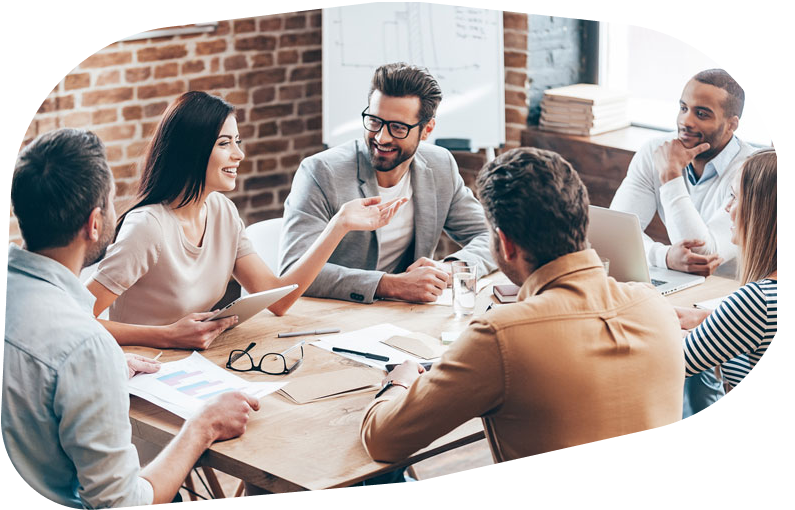
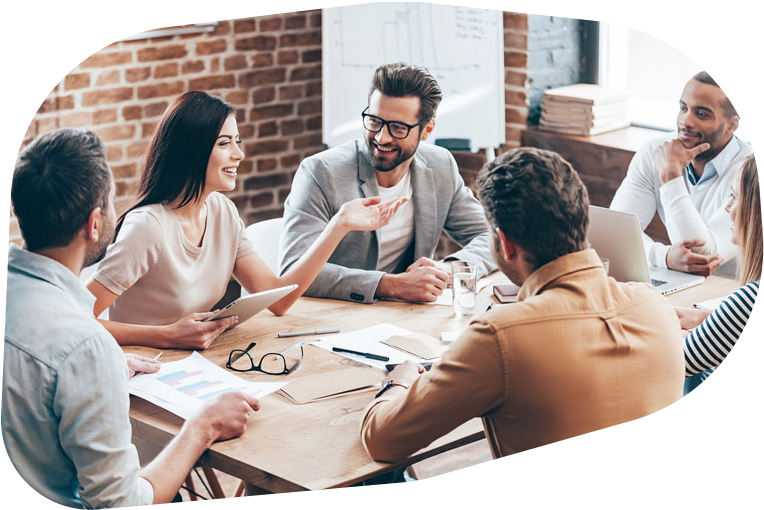
style : add styling to section 'intro'

diff --git a/porogo/frontend/src/components/views/About.tsx b/porogo/frontend/src/components/views/About.tsx
@@ -7,6 +7,9 @@ import 'swiper/css/navigation';
 import 'swiper/css/pagination';
 import 'swiper/css/scrollbar';
 
+/**
+ *
+ */
 export default function About() {
     const people = ['Yaneric', 'Axel', 'Rida', 'Emilie', 'Noah'];
     return <>
@@ -20,10 +23,15 @@ export default function About() {
                         channel that enthusiasm into crafting innovative and meaningful projects. At Porogo, we 
                         turn our passions into projects, creating with joy and purpose.
                 </p>
-                <button>Checkout our projects !</button>
+                <button className='btn-projects'>Checkout our projects !</button>
             </div>
             <div className='images'>
-                <img src='/static/assets/images/fake-meeting.png' alt='Image of us'></img>
+                <div className='container'>
+                    <img className='picture-us' src='/static/assets/images/fake-meeting.png' alt='Image of us'></img>
+                    <svg className='under-shape' viewBox="0 0 795 511" fill="none" xmlns="http://www.w3.org/2000/svg">
+                        <path d="M10.2315 198.113C14.1356 110.085 81.1916 37.824 168.683 27.3619L387.313 1.21815C394.082 0.408671 400.922 0.370986 407.7 1.10582L621.872 24.3256C697.508 32.5258 759.821 87.3932 777.528 161.383L789.47 211.283C812.854 308.997 751.718 406.938 653.662 428.846L418 481.5L98.4343 509.897C44.2025 514.717 -1.85587 470.655 0.556444 416.263L10.2315 198.113Z"/>
+                    </svg>
+                </div>
             </div>
         </section>
         <section className='team'>
@@ -41,14 +49,14 @@ export default function About() {
             <div className='carousel-part'>
                 <Swiper
                     modules={[Navigation, Pagination, Scrollbar, A11y]}
-                    spaceBetween={50}
+                    spaceBetween={30}
                     slidesPerView={3}
                     loop
                     onSlideChange={() => console.log('slide change')}
                     onSwiper={(swiper) => console.log(swiper)}>        
                     {people.map(person => (
                         <div className='person' key={person}>
-                            <SwiperSlide><img src='/static/assets/images/axel.png'></img></SwiperSlide>
+                            <SwiperSlide><img src='/static/assets/images/yaneric.png'></img></SwiperSlide>
                         </div>
                     ))}     
                 </Swiper>
@@ -70,7 +78,7 @@ export default function About() {
         </section>
         <section className='projects'>
             <h4 className='subtitle'>PROJECTS</h4>
-            <h1>Things we&apos;ve made</h1>
+            <h1 className='title'>Things we&apos;ve made</h1>
             {/*API get Github projects with most stars from organization (only need 2)*/}
             <div className='star-projects'>
                 <p>card project</p>

diff --git a/porogo/frontend/static/styles/views/_about.scss b/porogo/frontend/static/styles/views/_about.scss
@@ -4,17 +4,92 @@
     height: $body-height;
     display: flex;
     align-items: center;
-    justify-content: center;
+    justify-content: space-between;
     flex-direction: row;
-    gap: 0;
 
     .text{
         display: flex;
         align-items: left;
+        justify-content: center;
         flex-direction: column;
-        width: 50%;
+        width: 35%;
+        margin-left: 8%;
+
+        .btn-projects{
+            margin-top: 15px;
+            width: 50%;
+            padding: 10px;
+            border: none;
+            border-radius: 10px;
+
+            font-size: $descriptionText-size;
+            font-weight: 400;
+            color: white;
+            background-color: $background-color;
+            letter-spacing: $descriptionText-spacing;
+        }
+    }
+
+    .images{
+        display: flex;
+        align-items: center;
+        justify-self: center;
+        margin-right: 8%;
+    }
+
+    .container {
+        position: relative;
+        display: flex;
+        align-items: center;
+        justify-content: center;
+        width: fit-content;
+    }
+
+    .picture-us{
+        position: relative;
+        width: 75%;
+        z-index: 1;
+    }
+
+    .under-shape{
+        position: absolute;
+        width: 75%;
+        z-index: 0;
+        fill: $bright-light-blue;
+        top: 10%;
+        left: 18%;
+        filter: drop-shadow(10px 10px 10px $bright-light-blue);
+    }
+
+}
+
+.team{
+    height: 100vh;
+    display: flex;
+    align-items: center;
+    justify-content: space-between;
+    flex-direction: row;
+    background-color: $light-gray;
+
+    .text{
+        display: flex;
+        align-items: left;
+        justify-content: center;
+        flex-direction: column;
+        width: 35%;
+        margin-left: 8%;
+    }
+
+    .carousel-part{
+        display: flex;
+        width: 45%;
+        align-items: center;
+        justify-self: center;
+        margin-right: 8%;
     }
 }
+
+
 
 .subtitle{
     font-size: $newsubTitleText-size;
@@ -29,7 +104,11 @@
 }
 
 .description{
+    padding-top: 20px;
     font-size: $descriptionText-size;
     font-weight: $descriptionText-weight;
     letter-spacing: $descriptionText-spacing;
+    line-height: $descriptionText-line-height;
+    text-align: justify;
+    text-justify: inter-word;
 }

diff --git a/porogo/frontend/static/styles/common/_variables.scss b/porogo/frontend/static/styles/common/_variables.scss
@@ -19,6 +19,8 @@ $cloudy-blue: #E0FBFC;
 $blue-gray: #405A60;
 $link-hover-color: #27A6C3;
 $link-click-color: #4DCFED;
+$bright-light-blue: #1A90AB;
+$light-gray: #F1F0F0;
 
 
 //TitleText class
@@ -50,3 +52,4 @@ $newtitleText-spacing: -1%;
 $descriptionText-size: 1.25rem;
 $descriptionText-weight: 200;
 $descriptionText-spacing: -1%;
+$descriptionText-line-height: 2rem;
